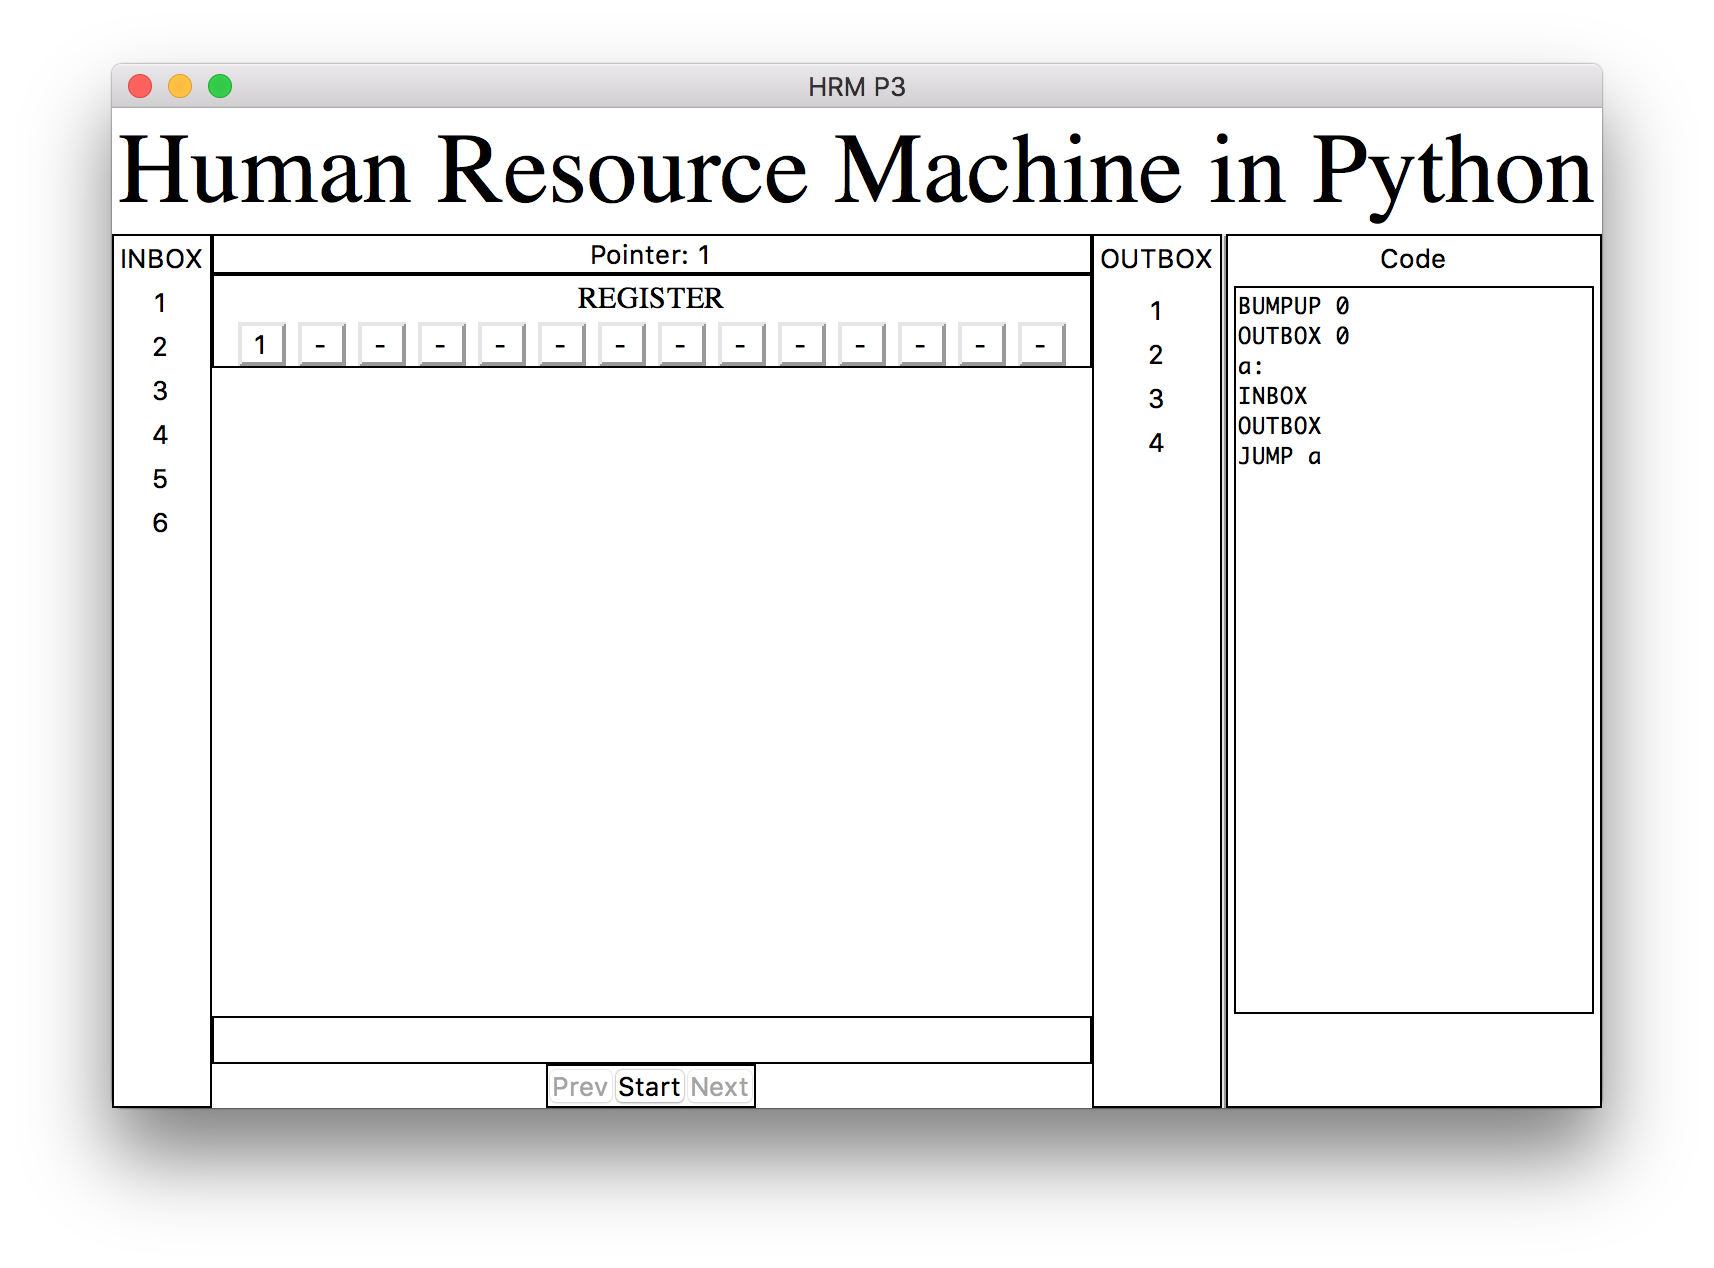
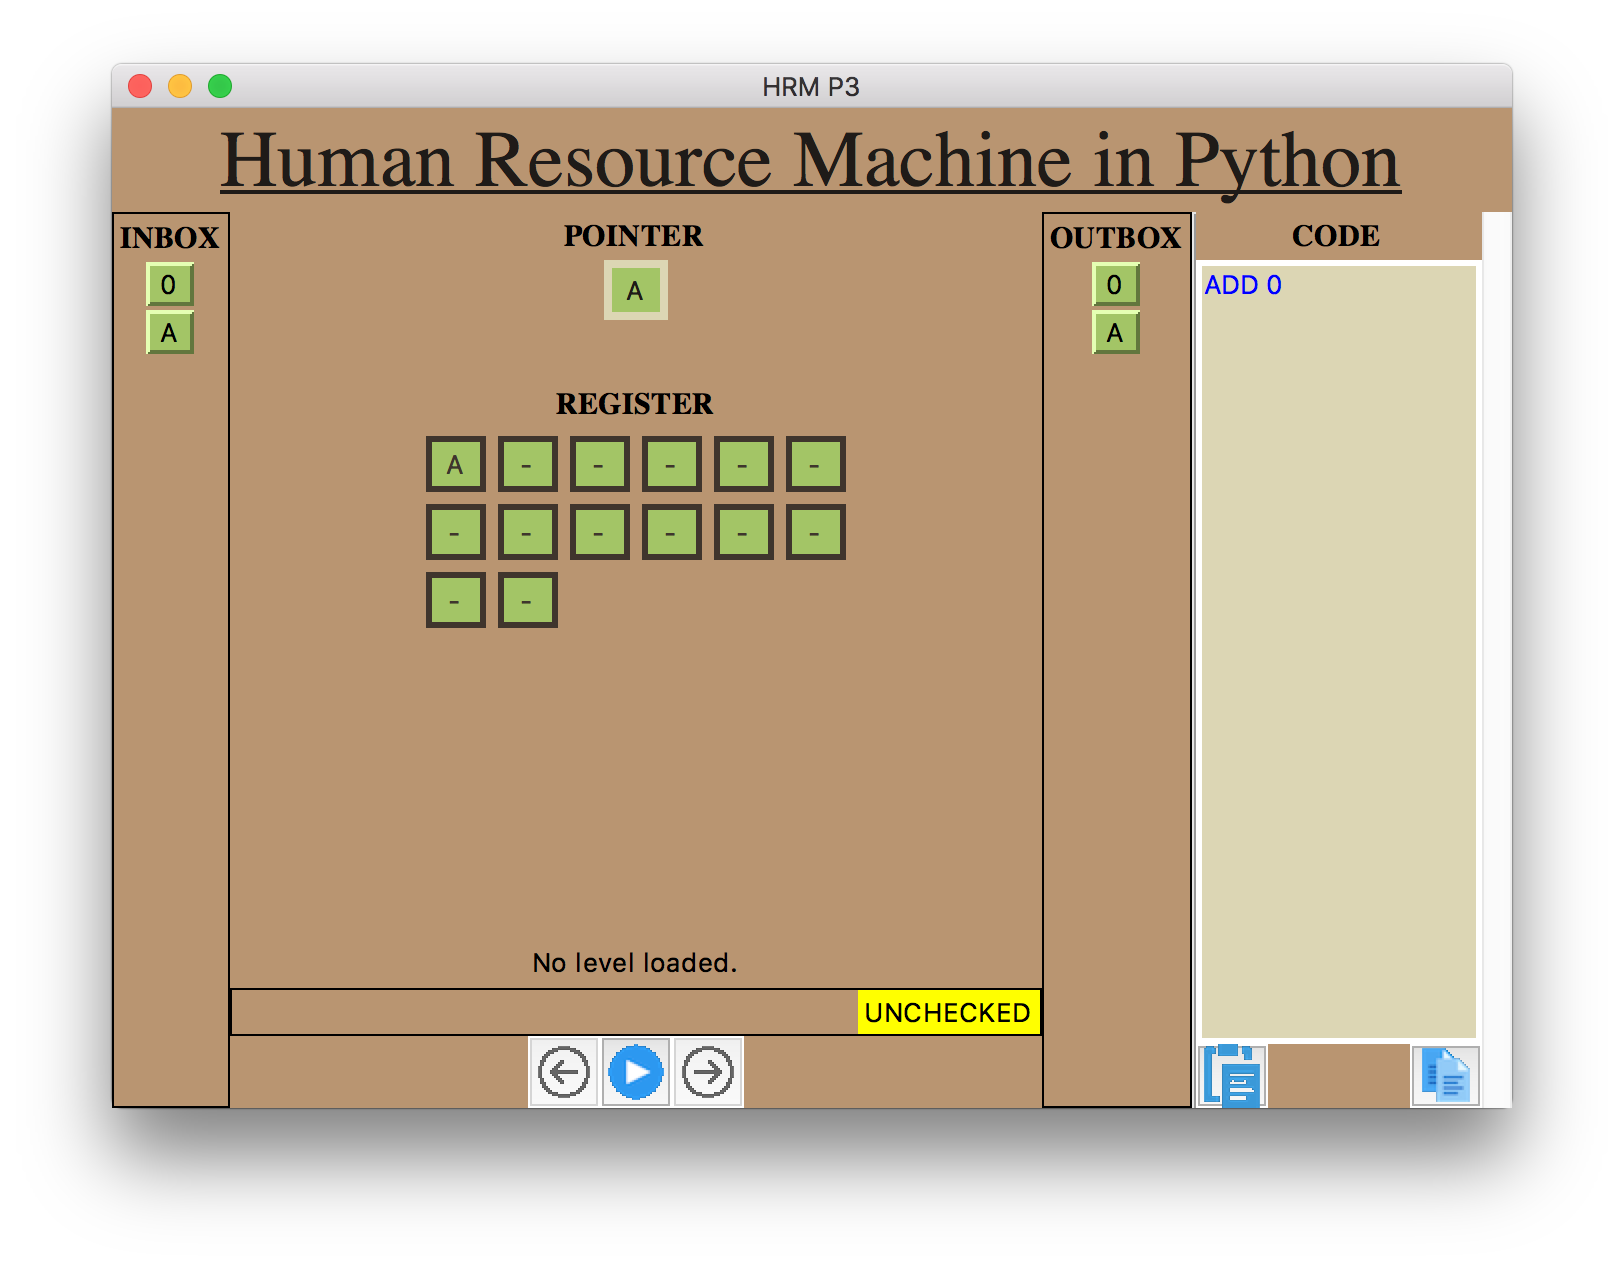
Starting redesign

diff --git a/hrmengine/gui.py b/hrmengine/gui.py
@@ -8,7 +8,7 @@ from hrmengine.tkutils import move_line_up, move_line_down, delete_line
 __inboxItemFrame = Frame
 __outboxItemFrame = Frame
 __regItemframe = Frame
-__pointerFrame = Frame
+__pointer_label = Frame
 __code_items = Text
 __actions_frame = Frame
 __message_label = Label
@@ -28,10 +28,26 @@ __stop_image = PhotoImage
 __next_image = PhotoImage
 
 
+# Colors
+def __toHex(r, g, b):
+    return '#%02x%02x%02x' % (r, g, b)
+
+GREEN = __toHex(163, 197, 102)
+RED = __toHex(165, 84, 65)
+YELLOW = __toHex(0, 0, 0)
+GREY = __toHex(94, 94, 94)
+DARKGREY = __toHex(80, 80, 80)
+BROWN = __toHex(63, 53, 45)
+DARKBROWN = __toHex(31, 27, 24)
+WHITE = __toHex(220, 214, 180)
+BEIGE = __toHex(185, 149, 113)
+
+
 def main(state):
     root = Tk()
     root.title("HRM P3")
     root.minsize(width=700, height=500)
+    root.configure(bg=BEIGE)
     center(root)
 
     # Menubar
@@ -51,29 +67,29 @@ def main(state):
     for l in range(1, len(levels) + 1):
         levelmenu.add_command(label="Level %s" % l, command=load_level_data('level%s' % l))
     __menubar.add_cascade(label="Load Level", menu=levelmenu)
-    root.config(menu=__menubar)
+    root.config(menu=__menubar, bg=BEIGE)
 
     # Title
-    title = Label(root, text="Human Resource Machine in Python", font="times 40")
+    title = Label(root, text="Human Resource Machine in Python", font="times 40 underline", bg=BEIGE, fg=DARKBROWN)
     title.pack()
 
     # INBOX
-    inbox_frame = Frame(root, bd=1, relief=SOLID)
+    inbox_frame = Frame(root, bd=1, relief=SOLID, bg=BEIGE)
     inbox_frame.pack(side=LEFT, fill=Y)
-    Label(inbox_frame, text="INBOX").pack()
+    Label(inbox_frame, text="INBOX", font="times 15 bold ", bg=BEIGE).pack()
     global __inboxItemFrame
-    __inboxItemFrame = Frame(inbox_frame)
+    __inboxItemFrame = Frame(inbox_frame, bg=BEIGE)
     __inboxItemFrame.pack()
 
     # Code
-    code_frame = Frame(root, bd=1, relief=SOLID)
+    code_frame = Frame(root, bg=BEIGE)
     code_frame.pack(side=RIGHT, fill=Y)
 
     scrollbar = Scrollbar(code_frame)
     scrollbar.pack(side=RIGHT, fill=Y)
-    Label(code_frame, text="Code", width=15).pack(side=TOP)
+    Label(code_frame, text="CODE", width=15, font="times 15 bold ", bg=BEIGE).pack(side=TOP)
     global __code_items
-    __code_items = Text(code_frame, width=15, bd=1, relief=SOLID)
+    __code_items = Text(code_frame, width=15, font="bold", bg=WHITE)
     __code_items.pack(fill=BOTH)
     __code_items.bind('<<Modified>>', lambda e: __render_highlighting(e))
 
@@ -86,48 +102,53 @@ def main(state):
 
     # Clipboard
     global __clipboard_frame
-    __clipboard_frame = Frame(code_frame, bd=1, relief=SOLID)
+    __clipboard_frame = Frame(code_frame, bd=1, relief=SOLID, bg=BEIGE)
     __clipboard_frame.pack(fill=X)
 
     # Processing State
     global __programm_state
-    __programm_state = Label(code_frame)
+    __programm_state = Label(code_frame, bg=BEIGE)
     __programm_state.pack(fill=X)
 
     # Space
     LabelFrame(root, width=2, bg="white").pack(side=RIGHT, fill=Y)
 
     # OUTBOX
-    outboxFrame = Frame(root, bd=1, relief=SOLID)
+    outboxFrame = Frame(root, bd=1, relief=SOLID, bg=BEIGE)
     outboxFrame.pack(side=RIGHT, fill=Y)
-    Label(outboxFrame, text="OUTBOX").pack()
+    Label(outboxFrame, text="OUTBOX", font="times 15 bold ", bg=BEIGE).pack()
     global __outboxItemFrame
-    __outboxItemFrame = Frame(outboxFrame)
+    __outboxItemFrame = Frame(outboxFrame, bg=BEIGE)
     __outboxItemFrame.pack(fill=X)
 
     # Pointer
-    global __pointerFrame
-    __pointerFrame = Label(root, bd=1, relief=SOLID)
-    __pointerFrame.pack(fill=X)
+    global __pointer_label
+    Label(root, text="POINTER", bg=BEIGE, font="times 15 bold ").pack()
+    pointer = Frame(root, bg=WHITE, padx=4, pady=4)
+    pointer.pack()
+    __pointer_label = Label(pointer, width=2, bg=GREEN, fg=DARKBROWN)
+    __pointer_label.pack(fill=X)
+
+    LabelFrame(root, height=30, bg=BEIGE).pack()
 
     # Reg Frame
-    regFrame = Frame(root, bd=1, relief=SOLID)
+    regFrame = Frame(root, bg=BEIGE)
     regFrame.pack(fill=BOTH)
-    Label(regFrame, text="REGISTER", font="times 15").pack()
+    Label(regFrame, text="REGISTER", bg=BEIGE, font="times 15 bold ").pack()
     global __regItemframe
-    __regItemframe = Frame(regFrame)
+    __regItemframe = Frame(regFrame, bg=BEIGE)
     __regItemframe.pack()
 
     # Actions
     global __actions_frame
-    __actions_frame = Frame(root, bd=1, relief=SOLID)
+    __actions_frame = Frame(root, bd=1, relief=SOLID, bg=BEIGE)
     __actions_frame.pack(side=BOTTOM)
 
     # Message
-    message_frame = Frame(root, bd=1, relief=SOLID)
+    message_frame = Frame(root, bd=1, relief=SOLID, bg=BEIGE)
     message_frame.pack(side=BOTTOM, fill=X)
     global __message_label
-    __message_label = Label(message_frame, text="")
+    __message_label = Label(message_frame, bg=BEIGE, text="")
     __message_label.pack(side=LEFT, fill=X)
 
     global __check_light
@@ -136,8 +157,8 @@ def main(state):
 
     # Welcome/Level text
     global __welcome_text
-    welcome_frame = Frame(root, bd=1, relief=SOLID).pack(side=BOTTOM)
-    __welcome_text = Message(welcome_frame, text="No level loaded.", width=350)
+    welcome_frame = Frame(root, bd=1, relief=SOLID, bg=BEIGE).pack(side=BOTTOM)
+    __welcome_text = Message(welcome_frame, text="No level loaded.", bg=BEIGE, width=350)
     __welcome_text.pack(side=BOTTOM)
 
     # Update with State
@@ -185,14 +206,17 @@ def _update_inbox_frame(state):
     peek = list(state.inbox)
     state.inbox = iter(peek)
     for i in peek:
-        Label(__inboxItemFrame, text=i).pack()
+        Label(__inboxItemFrame, text=i, width=2, bd=2, relief=RAISED, bg=GREEN).pack()
+        LabelFrame(__inboxItemFrame, height=2, bg=BEIGE).pack()
+
 
 
 def _update_outbox_frame(state):
     __clear_children(__outboxItemFrame)
 
     for i in state.outbox:
-        Label(__outboxItemFrame, text=i).pack()
+        Label(__outboxItemFrame, text=i, width=2, bd=2, relief=RAISED, bg=GREEN).pack()
+        LabelFrame(__outboxItemFrame, height=2, bg=BEIGE).pack()
 
 
 def _update_check_state(state):
@@ -209,14 +233,23 @@ def _update_check_state(state):
 def _update_reg_frame(state):
     __clear_children(__regItemframe)
 
-    for i in state.regs:
-        if i is None:
-            i = "-"
-        Label(__regItemframe, text=i, width=2, bd=2, relief=RAISED).pack(side=LEFT, padx=3)
+    row = Frame(__regItemframe, bg=BEIGE)
+    for i in range(len(state.regs)):
+        v = state.regs[i]
+        if v is None:
+            v = "-"
 
+        if i % 6 == 0:
+            row.pack(fill=X)
+            row = Frame(__regItemframe, bg=BEIGE)
+
+        tmp = Frame(row, bg=BROWN)
+        Label(tmp, text=v, width=2, bg=GREEN, fg=BROWN, font="bold").pack(padx=3, pady=3)
+        tmp.pack(side=LEFT, padx=3, pady=3)
+    row.pack(fill=X)
 
 def _update_pointer_frame(state):
-    __pointerFrame.configure(text="Pointer: {}".format(state.pointer))
+    __pointer_label.configure(text=state.pointer)
 
 
 def _update_code_frame(state):
@@ -260,6 +293,7 @@ def _update_clipboard_button(state):
            text="PASTE",
            image=__paste_image,
            width="32", height="32",
+           bg=BEIGE,
            command=lambda: from_cb(state),
            state=button_state
            ).pack(side=LEFT)
@@ -280,6 +314,7 @@ def _update_clipboard_button(state):
            command=lambda: to_cb(state),
            image=__copy_image,
            width="32", height="32",
+           bg=BEIGE,
            state=button_state
            ).pack(side=RIGHT)
 
@@ -337,6 +372,7 @@ def _update_actions(state):
                          text='Prev',
                          image=__prev_image,
                          width="32", height="32",
+                         bg=BEIGE,
                          command=lambda: update(state.prev_state))
     prev_button.pack(side=LEFT)
     if state.prev_state is None:
@@ -362,6 +398,7 @@ def _update_actions(state):
                           text='Stop',
                           image=__stop_image,
                           width="32", height="32",
+                          bg=BEIGE,
                           command=lambda: stop())
     if not __edit_mode:
         reset_button.pack(side=LEFT)
@@ -383,6 +420,7 @@ def _update_actions(state):
                           text='Start',
                           image=__start_image,
                           width="32", height="32",
+                          bg=BEIGE,
                           command=lambda: start())
     if __edit_mode:
         start_button.pack(side=LEFT)
@@ -400,6 +438,7 @@ def _update_actions(state):
                          text="Next",
                          image=__next_image,
                          width="32", height="32",
+                         bg=BEIGE,
                          command=lambda: execute_tick(state))
     tick_button.pack(side=LEFT)
     if __edit_mode or state.pc == -1 or len(state.code) <= state.pc:
@@ -445,19 +484,20 @@ def __clear_children(widget):
     # this will force tk to refresh the widgets and remove slaves from view
     widget.configure(bd=0)
 
+
 if __name__ == "__main__":
     inbox = iter([])
     ops = [
     ]
     state = cpu.create_state(inbox, ops)
-    state.outbox = []
 
-    # inbox = iter([])
-    # ops = [
-    #     ["ADD", '0']
-    # ]
-    # state = cpu.create_state(inbox, ops)
-    # state.pointer = 'A'
-    # state.regs[0] = 'A'
+    inbox = iter(['0', 'A'])
+    ops = [
+        ["ADD", '0']
+    ]
+    state = cpu.create_state(inbox, ops)
+    state.outbox = ['0', 'A']
+    state.pointer = 'A'
+    state.regs[0] = 'A'
 
     main(state)

diff --git a/README.md b/README.md
@@ -68,7 +68,7 @@ This value is used in operations like outbox or inbox.
 [x] Return new state from tick <br>
 [x] Create level module holding state, messages and check 1-4<br>
 [x] Support character as values (only subtraction with two chars allowed)<br>
-[ ] Create level module holding state, messages and check 4-<br>
+[ ] Create level module holding state, messages and check 4-...<br>
 
 
 ### GUI
@@ -99,7 +99,7 @@ This value is used in operations like outbox or inbox.
 [ ] Add statistics about execution <br>
 [ ] Editable inbox window <br>
 [ ] Editable regs window <br>
-[ ] Redesign gui (remove borders, add colors, backgrounds, ...)<br>
+[-] Redesign gui (remove borders, add colors, backgrounds, ...)<br>
 [ ] Experiment: Use pymitter events to manage gui state and updates <br>
 
 
